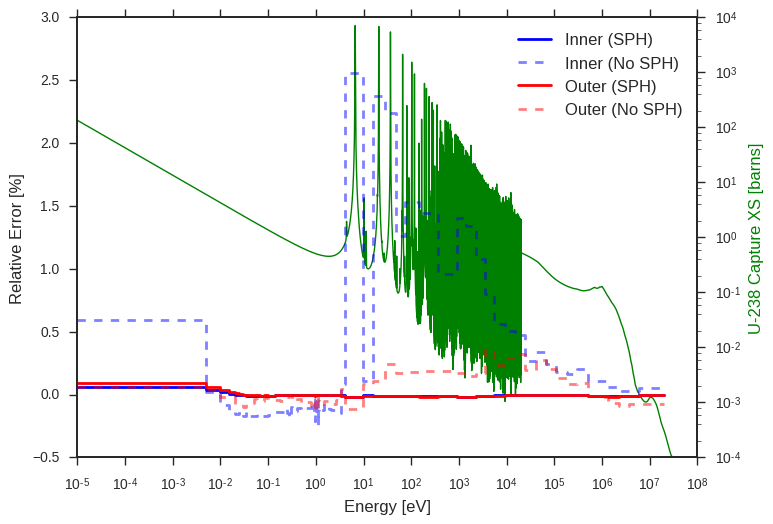
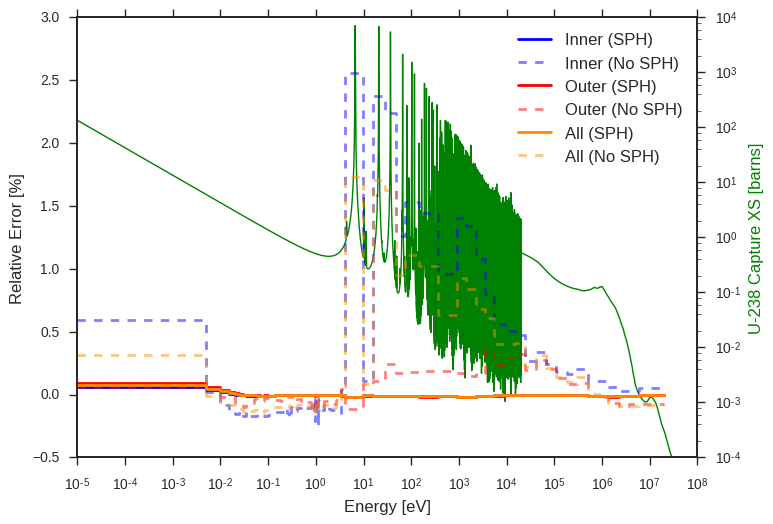
Added final plot of all FSR err

diff --git a/chapters/sph.tex b/chapters/sph.tex
@@ -293,7 +293,7 @@ Although these results illustrate much better agreement between OpenMC and OpenM
 %\subsection{SPH Factors in Energy}
 %\label{subsubsec:chap6-sph-energy}
 
-A second case study investigated the impact of \ac{SPH} factors on the energy-dependent flux errors identified in Sec.~\ref{subsec:chap5-diagnosis-energy}. The error of OpenMOC's 70-group flux with respect to the reference OpenMC flux is displayed in Fig.~\ref{fig:chap6-rel-err-energy} for the slab and pin. The errors are shown for the innermost and outermost \ac{FSR}s in the fuel. The flux errors without \ac{SPH}-corrected \ac{MGXS} are reproduced from Fig.~\ref{fig:chap5-rel-err-energy} and are illustrated with dashed lines for comparison purposes. 
+A second case study investigated the impact of \ac{SPH} factors on the energy-dependent flux errors identified in Sec.~\ref{subsec:chap5-diagnosis-energy}. The error of OpenMOC's 70-group flux with respect to the reference OpenMC flux is displayed in Fig.~\ref{fig:chap6-rel-err-energy} for the slab and pin. The errors are shown for the innermost and outermost \ac{FSR}s in the fuel, along with the average error across all \ac{FSR}s in the fuel. The flux errors without \ac{SPH}-corrected \ac{MGXS} are reproduced from Fig.~\ref{fig:chap5-rel-err-energy} and are illustrated with dashed lines for comparison purposes. 
 
 \begin{figure}[h!]
 \begin{subfigure}{.9\textwidth}
@@ -306,7 +306,7 @@ A second case study investigated the impact of \ac{SPH} factors on the energy-de
   \includegraphics[width=\linewidth]{figures/sph/pin-cell/rel-err-inner-outer}
   \caption{}
 \end{subfigure}
-\caption[Flux relative error by energy group w/ SPH]{The energy-dependent relative error of the 70-group OpenMOC scalar flux with respect to the reference OpenMC flux in a 1D slab (a) and 2D fuel pin (b). The results correspond to Tables~\ref{table:chap6-sph-slab-energy} and~\ref{table:chap6-sph-pin-energy}.}
+\caption[Flux relative error by energy group w/ SPH]{The energy-dependent relative error of the 70-group OpenMOC scalar flux with respect to the reference OpenMC flux in a 1D slab (a) and 2D fuel pin (b) for the innermost, outermost and all \ac{FSR}s. The results correspond to Tables~\ref{table:chap6-sph-slab-energy} and~\ref{table:chap6-sph-pin-energy}.}
 \label{fig:chap6-rel-err-energy}
 \end{figure}
 
@@ -325,7 +325,7 @@ A second case study investigated the impact of \ac{SPH} factors on the energy-de
 \label{fig:chap6-sph-energy}
 \end{figure}
 
-As expected, the flux error is greatly reduced with \ac{SPH}-corrected \ac{MGXS}. The flux error profile is nearly flat in energy for both innermost and outermost \ac{FSR}s, unlike the highly energy-dependent profiles observed without \ac{SPH}. Furthermore, no systematic difference between the error profiles for the innermost and outermost \ac{FSR}s can be discerned from the plots. The improvement in OpenMOC's flux -- especially in those energy groups with large U-238 capture resonances -- is responsible for the reduction in the eigenvalue bias with \ac{SPH}-corrected \ac{MGXS} presented in Sec.~\ref{subsubsec:chap6-sph-eigenvalues}.
+As expected, the flux error is greatly reduced with \ac{SPH}-corrected \ac{MGXS}. The flux error profile is nearly flat in energy for innermost, outermost and all \ac{FSR}s, unlike the highly energy-dependent profiles observed without \ac{SPH}. Furthermore, no systematic difference between the error profiles for the innermost and outermost \ac{FSR}s can be discerned from the plots. The improvement in OpenMOC's flux -- especially in those energy groups with large U-238 capture resonances -- is responsible for the reduction in the eigenvalue bias with \ac{SPH}-corrected \ac{MGXS} presented in Sec.~\ref{subsubsec:chap6-sph-eigenvalues}.
 
 The \ac{SPH} factors in each energy group are illustrated for the innermost and outermost \ac{FSR}s in the slab and pin in Fig.~\ref{fig:chap6-sph-energy}. The \ac{SPH} factors show nearly the opposite energy-dependent behavior of the flux errors without \ac{SPH} factors. In general, the factors are less than unity in those groups with positive flux errors (\textit{e.g.}, the fast groups), while the factors are greater than unity in groups with negative errors (\textit{e.g.}, resonance groups in the innermost \ac{FSR}). This behavior is expected since an \ac{SPH} factor greater than unity will magnify the total cross section (see Eqn.~\ref{eqn:chap6-sph-update-sigt}) which will reduce the scalar flux, and vice versa. Furthermore, the deviation of the \ac{SPH} factors from unity is roughly the same as the error in each respective group. For example, the flux in group 27 with the U-238 capture resonance at 6.67 eV exhibits an error of nearly 1.5\% and 2.5\% for the slab and pin, respectively. Similarly, the \ac{SPH} factors in group 27 are approximately 0.984 and 0.970, or 1.6\% and 3\% reduced from unity, for the slab and pin.
 

diff --git a/chapters/biases.tex b/chapters/biases.tex
@@ -668,7 +668,7 @@ The emergence of a negative systematic bias in the eigenvalue with fine energy a
 \subsection{Energy-Dependent Flux Error}
 \label{subsec:chap5-diagnosis-energy}
 
-Upon further inspection, it was noted that OpenMOC's flux exhibited large errors with respect to the reference OpenMC flux in those energy groups which isolate large U-238 capture resonances. The error in the 70-group flux is illustrated in Fig.~\ref{fig:chap5-rel-err-energy} for the \ac{FSR}s nearest and furthest from the moderator. These plots were generated for the benchmark models with a 16$\times$ \ac{FSR} discretization with \ac{MGXS} tallied on the \ac{FSR} mesh. The plots correspond to the case studies in Tables~\ref{table:chap5-slab-space} and~\ref{table:chap5-pin-space} with iso-in-lab scattering.
+Upon further inspection, it was noted that OpenMOC's flux exhibited large errors with respect to the reference OpenMC flux in those energy groups which isolate large U-238 capture resonances. The error in the 70-group flux is illustrated in Fig.~\ref{fig:chap5-rel-err-energy} for the \ac{FSR}s nearest and furthest from the moderator, along with the average error across all \ac{FSR}s in the fuel. These plots were generated for the benchmark models with a 16$\times$ \ac{FSR} discretization with \ac{MGXS} tallied on the \ac{FSR} mesh. The plots correspond to the case studies in Tables~\ref{table:chap5-slab-space} and~\ref{table:chap5-pin-space} with iso-in-lab scattering.
 
 \begin{figure}[h!]
 \begin{subfigure}{.9\textwidth}
@@ -681,11 +681,11 @@ Upon further inspection, it was noted that OpenMOC's flux exhibited large errors
   \includegraphics[width=\linewidth]{figures/biases/pin-cell/rel-err-inner-outer}
   \caption{}
 \end{subfigure}
-\caption[Flux relative error by energy group]{The energy-dependent relative error of the OpenMOC scalar flux with respect to the reference OpenMC flux in a 1D slab (a) and 2D fuel pin (b). The results correspond to the case studies presented in Tables~\ref{table:chap5-slab-space} and~\ref{table:chap5-pin-space}.}
+\caption[Flux relative error by energy group]{The energy-dependent relative error of the OpenMOC scalar flux with respect to the reference OpenMC flux in a 1D slab (a) and 2D fuel pin (b) for the innermost, outermost and all \ac{FSR}s. The results correspond to the case studies presented in Tables~\ref{table:chap5-slab-space} and~\ref{table:chap5-pin-space}.}
 \label{fig:chap5-rel-err-energy}
 \end{figure}
 
-As illustrated in the figures, there is a striking error of up to 1.5\% for the fluxes in the slab and up to 2.5\% for the fuel pin in the innermost \ac{FSR} in groups 24, 25 and 27. These energy groups contain the three largest U-238 capture resonances betweeen 4 and 48.052 eV. In addition, the flux errors appear to ``build up'' as the energy decreases through the resonance range, and the magnitude of the capture resonances increase. The one notable exception to this is group 26 (4 -- 9.877 eV) which does not include a U-238 capture resonance. These observations stand in contrast to the flux errors in the outermost \ac{FSR} for which no remarkable trend can be discerned. The positive error in the flux in groups with large capture resonances indicates that capture reaction rates are over-predicted in those groups by OpenMOC, contributing to the negative bias in the eigenvalue. Furthermore, these results indicate a strong relationship between the energy and spatial distribution of the flux errors, as is explored in the following section.
+As illustrated in the figures, there is a striking error of up to 1.5\% for the fluxes in the slab and up to 2.5\% for the fuel pin in the innermost \ac{FSR} in groups 24, 25 and 27. These energy groups contain the three largest U-238 capture resonances betweeen 4 and 48.052 eV. In addition, the flux errors appear to ``build up'' as the energy decreases through the resonance range, and the magnitude of the capture resonances increase. The one notable exception to this is group 26 (4 -- 9.877 eV) which does not include a U-238 capture resonance. These observations stand in contrast to the flux errors in the outermost \ac{FSR} for which no remarkable trend can be discerned. The average error across all \ac{FSR}s is roughly $\nicefrac{2}{3}$ that of the innermost \ac{FSR} and exhibits the same features in the resonance region. The positive error in the flux in groups with large capture resonances indicates that capture reaction rates are over-predicted in those groups by OpenMOC, contributing to the negative bias in the eigenvalue. Furthermore, these results indicate a strong relationship between the energy and spatial distribution of the flux errors, as is explored in the following section.
 
 %\begin{emphbox}
 %\textbf{The OpenMOC flux exhibits a few percent error in groups with large U-238 capture resonances.}
